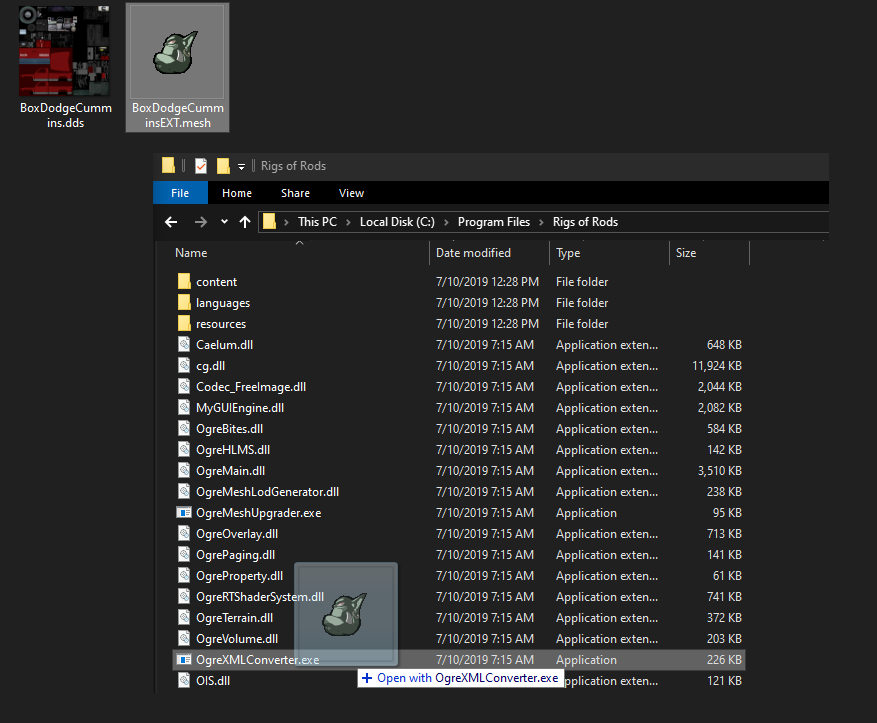
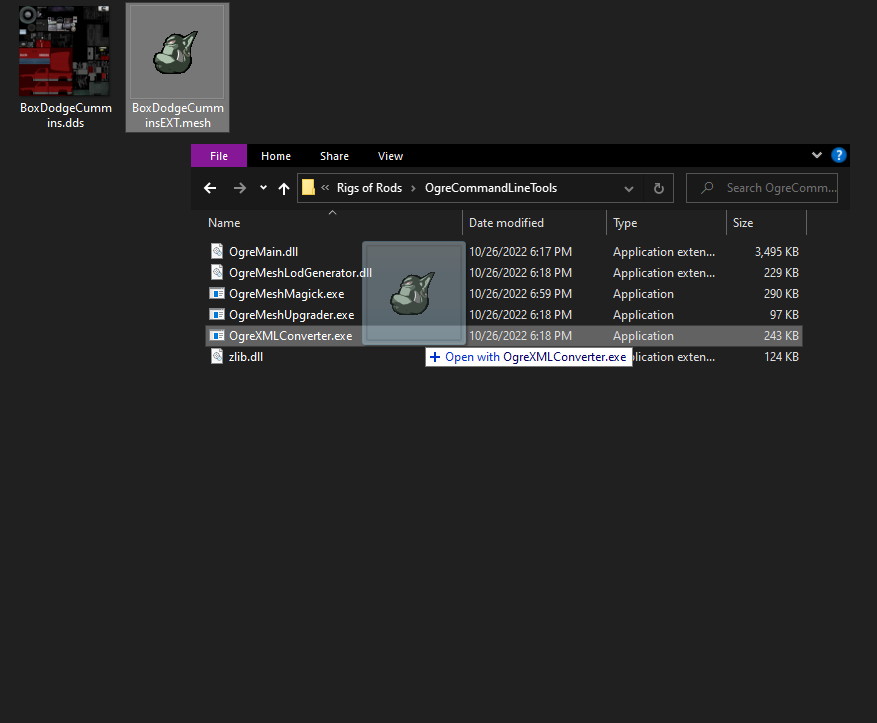
[Blender mesh editing] Cleanup (#200)

Changed region(s): [[0.1539, 0.1826, 0.9852, 0.9737]]

diff --git a/source/tools-tutorials/blender-mesh-editing.md b/source/tools-tutorials/blender-mesh-editing.md
@@ -1,45 +1,50 @@
-Blender mesh editing
+Blender (2.7) mesh editing
 ============
-
-!!! danger "Outdated tutorial"
-	This page was written before Blender version 2.8+ was released. It will be rewritten for 3.x eventually. 
 
 ## Introduction 
 
 Rigs of Rods is a game that is very easy to modify. This tutorial will help you get started on editing meshes using Blender, from installing the add-ons to exporting.
 
+We assume you already have some basic knowledge on using Blender (navigating UI, basic object editing, etc). There are plenty of tutorials available on YouTube or many other websites.
+
+We'll also assume you are running Windows, however these instructions should mostly apply to Linux users.
+
 **Please read everything carefully and do not skip any steps.**
 
-**If you've created a model yourself and just want to export it to RoR, [install the add-ons](#installing-blender-add-ons) and skip to the [Exporting](#exporting) section.**
-
-!!! warning
-    This tutorial assumes you have some basic knowledge on using Blender (Navigating UI, basic object editing, etc). There are plenty of tutorials available on YouTube or many other websites.
-
+!!! note "Disclaimer"
+	This page's purpose is not to teach you how to make content from scratch, nor is it meant to discourage anyone from doing so. It is simply for those who are interested in editing existing models.
+	Editing existing content is the easiest way to learn how RoR's content creation works, and this page is meant to help you get started. We currently do not have a tutorial on how to make a mod from scratch.
 
 ## Required software
 
 - Rigs of Rods
 - [Blender 2.79](https://download.blender.org/release/Blender2.79/)
 - [Ogre Import/Export add-ons](https://github.com/CuriousMike56/RoROgreAddons)
+- [Ogre Command Line Tools](https://forum.rigsofrods.org/resources/ogre-command-line-tools.967/)
 - (Optional) [Notepad++](https://notepad-plus-plus.org/)
-- (Optional) [OgreMeshy](https://sourceforge.net/projects/ogremeshy/)
+- (Optional) [OgreMeshy](https://forum.rigsofrods.org/resources/ogremeshy.595/)
 - A brain, some basic computer knowledge, and some patience
+
+## Blender version warning 
+
+On July 2019, Blender 2.8 was released. It was the biggest release in Blender's history, reworking a lot of Blender's core features. 
+This included changes to the addon API, which means addons need to be updated to support the newer versions. 
+
+As of November 2022, the [Ogre Mesh Import/Export plugin](https://github.com/OGRECave/blender2ogre) _technically_  _supports_  Blender 2.8+, 
+it currently suffers from usability bugs that prevent this page from being updated.
+
+For this reason we recommend using Blender 2.79 to edit meshes.
 
 ## Getting started
 
-If you're following this tutorial, chances are you probably already have a mesh you want to edit. In this tutorial I'll be editing Box5Diesel's Ram EXT.
+If you're following this tutorial, chances are you probably already have a mesh you want to edit. In this tutorial I'll be editing [Box5Diesel's Ram EXT](https://forum.rigsofrods.org/resources/box-dodge-ram.319/).
 Open the `.zip` file for the vehicle, and extract the correct `.mesh` file(s) and the textures (`.dds`, `.png`, etc) into a folder you can easily access:
-
 
 ![1](/images/blender-edit-meshandtextures.png)
 
-!!! warning 
-	As of the past few RoR versions, the XMLConverter is no longer bundled with the game.
-	You will need to download the command line tools from [here](https://forum.rigsofrods.org/resources/ogre-command-line-tools.967/) and extract into a new folder. You can then follow the tutorial as normal.
+Next, download the [Ogre Command Line Tools](https://forum.rigsofrods.org/resources/ogre-command-line-tools.967/) and extract the archive into a new folder. Inside you'll find `OgreXMLConverter.exe`.
 
-~~Next, open a new File Explorer window and browse to `C:\Program Files\Rigs of Rods`, this is where `OgreXMLConverter.exe` is located.~~
-
-Simply drag and drop the mesh onto `OgreXMLConverter.exe` to get a `.mesh.xml`:
+Now simply drag and drop the mesh onto `OgreXMLConverter.exe` to get a `.mesh.xml`:
 
 ![2](/images/blender-edit-converting-mesh-to-xml.png)
 
@@ -125,7 +130,8 @@ The `Edge Split` Modifier should now be selected. The default `Split Angle` (30)
 
 ![17](/images/blender-edit-edgesplit2.png)
 
-**Note: For some models just applying edge split won't be enough, further work may be required (such as marking faces sharp).**
+!!! note
+	For some models just applying edge split won't be enough, further work may be required (such as marking faces sharp).**
 
 ## Applying the texture
 
@@ -235,12 +241,23 @@ You forgot to convert the `.mesh` to `.mesh.xml`, as described in the [Getting s
 
 #### Mesh is flipped
 
-Change the "swap axis" option in the export settings.
+Change the "swap axis" option in the export settings:
 
-#### Mesh appears white/pink
+![36](/images/blender-export-swap-axis.png)
 
-You did not assign the correct material. Make sure it matches.
+Rigs of Rods meshes require the axis to be swapped to `xz-y` due to differences in the axises between RoR and Blender:
+
+In RoR x is front-back, y is up-down, z is side to side
+
+In Blender x is side to side, z is up-down, y is front-back
+
+#### Mesh appears white/black/pink
+
+You did not assign the correct material or you named it incorrectly. Make sure it matches.
+
+White/pink means the game can't find the material, while black means the game found the material but not the texture. 
+You can search the mesh name in your RoR.log to find the error. 
 
 #### Other errors
 
-First, just Google the issue. If you can't find a solution then you can create a thread on the [content creation forum](https://forum.rigsofrods.org/forums/content-creation.15/).
+If you're experiencing issues, you can create a thread on the [content creation forum](https://forum.rigsofrods.org/forums/content-creation.15/) or join the [RoR Discord](https://discord.gg/rigsofrods) and ask in the #modding channel.

diff --git a/source/README.md b/source/README.md
@@ -31,7 +31,7 @@ Vehicle creation:<br>
 [Truck file format](vehicle-creation/fileformat-truck/) - Information on the file format that defines every vehicle or object in the game.<br>
 [Soundscript file format](vehicle-creation/fileformat-soundscript/) - Information on the file format used to define vehicle sounds.<br>
 [Alternate skins (skinzips)](vehicle-creation/alternate-skins/) - A guide on understanding the format used to create and share custom skins.<br>
-[Blender mesh editing](tools-tutorials/blender-mesh-editing/) - Learn the basics of editing vehicle models in Blender.<br>
+[Blender mesh editing](tools-tutorials/blender-mesh-editing/) - Learn the basics of editing existing vehicle models in Blender.<br>
 Terrain creation:<br>
 [Intro to terrain creation](terrain-creation/intro/) - The basic structure of a RoR terrain.<br>
 [Terrn2 file format](terrain-creation/terrn2-subsystem/) - Information on the file format used to define a terrain.<br>
